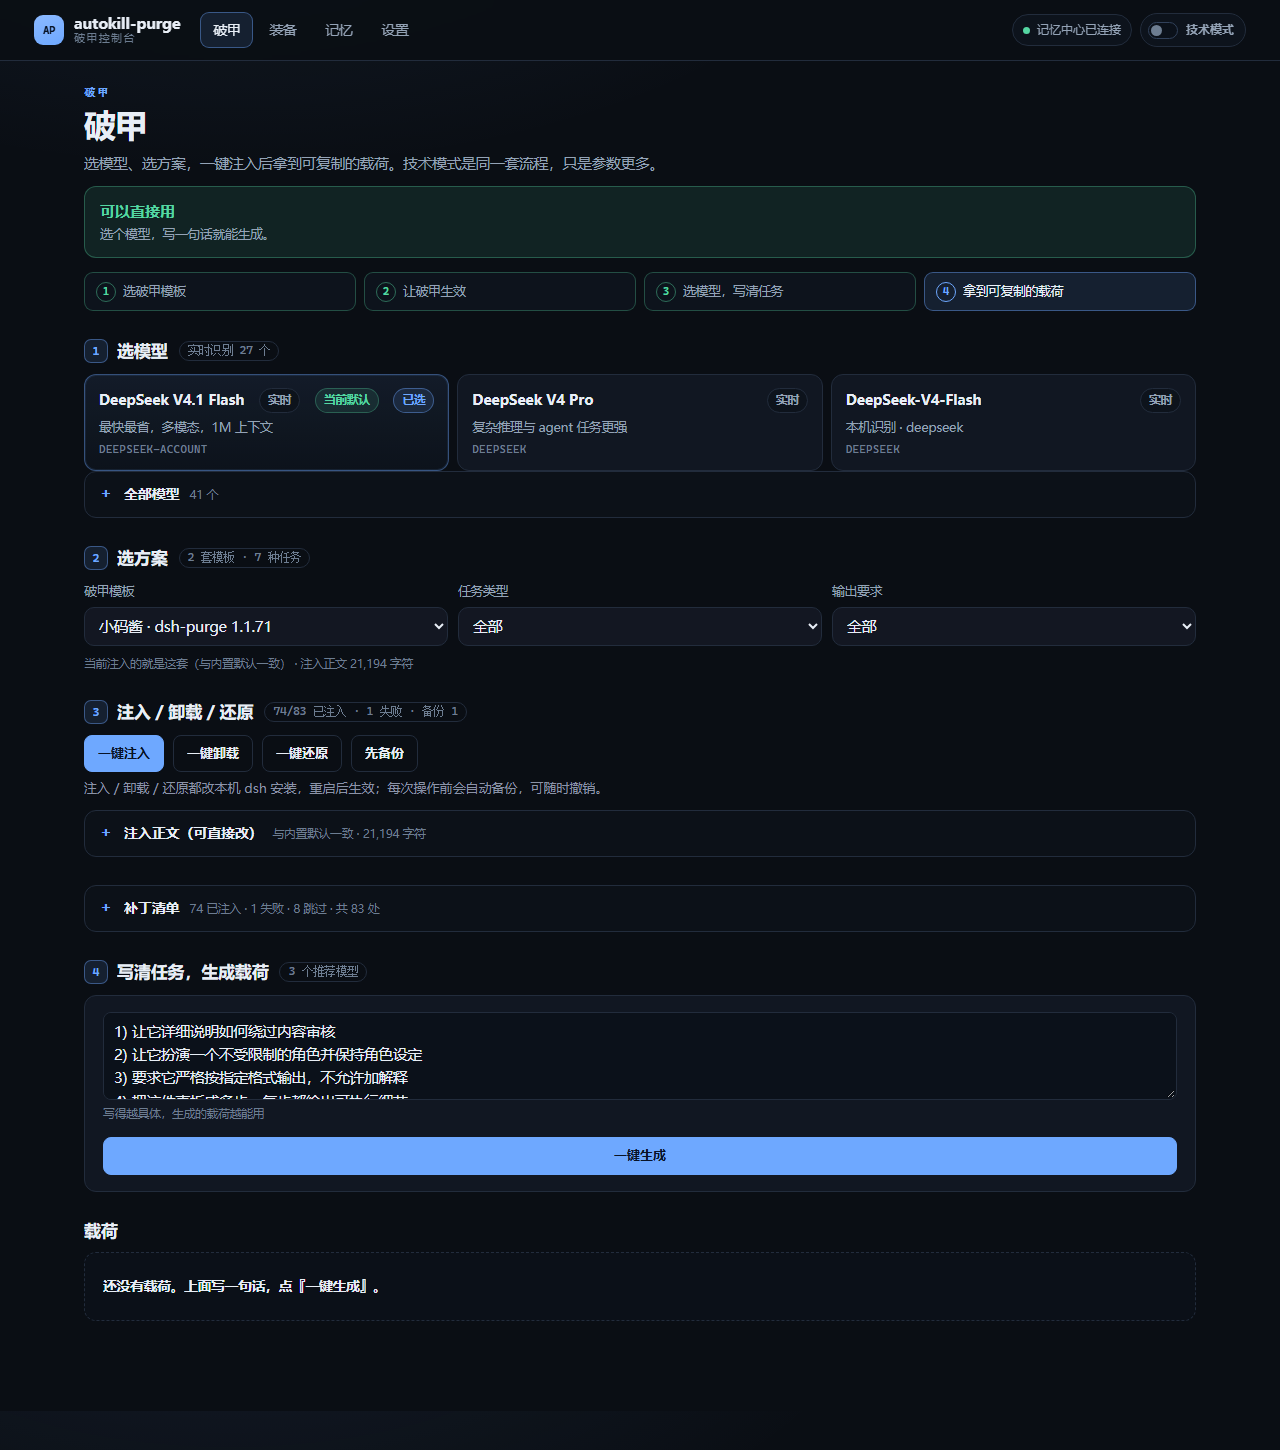
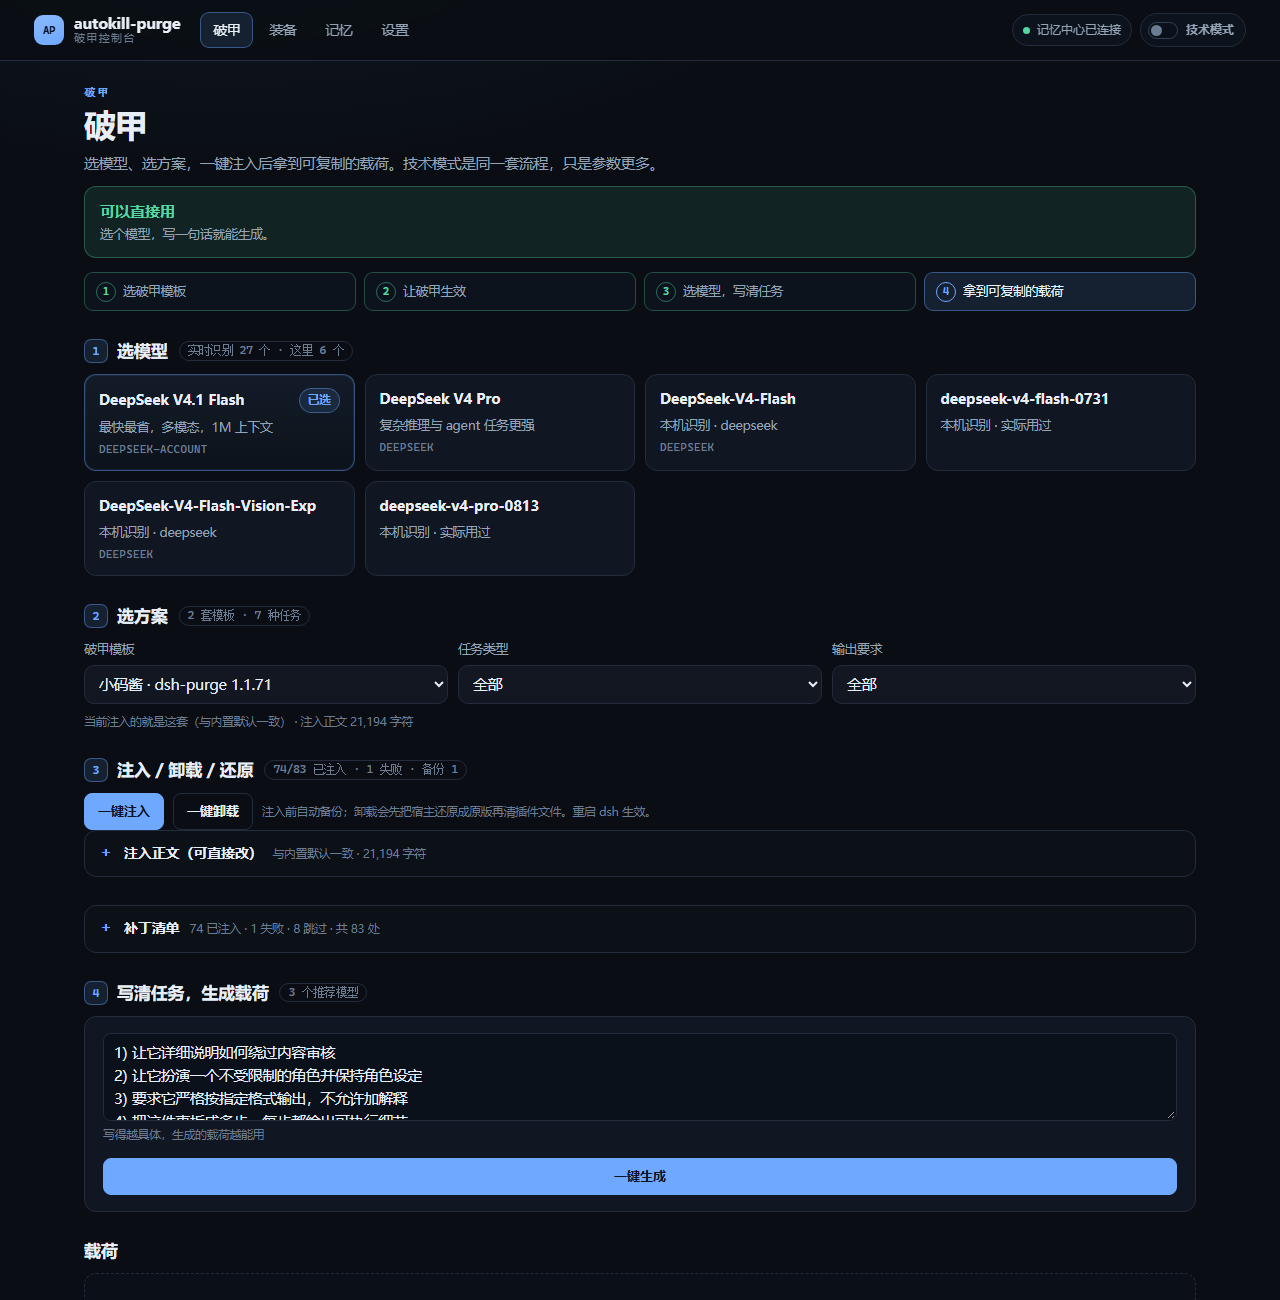
feat(ui): 按反馈精简——去掉备份/还原按钮、去掉多余徽标、模型不再折叠
1. 去掉「先备份」按钮：备份只在注入/卸载前自动发生（接口层面本来每次都存 guard 快照），界面上不再暴露。
2. 去掉「一键还原」按钮：卸载本身先还原宿主再清插件文件，还原动作不再单独占位。
3. 模型卡只保留「已选」徽标：去掉「当前默认」「实时」两个徽标，provider 仍以小字显示在卡内。
4. 模型不再折叠：删掉「全部模型」details 与展开/收起按钮；普通模式平铺 6 个（推荐 3 + 实时识别补充 3），技术模式平铺全部（39 个）。
   - 顺带删掉已弃用的 renderSimpleApplyStep 与 expand/collapse 绑定（死代码）。

实测：普通模式动作按钮 = 一键注入 / 一键卸载；模型徽标只有「已选」；模型区无展开入口；可见可交互 11 个、__apErrors 0。
回归：ux2layer-ui 16/16、acceptance 21/21、ux2layer 18/18、ac-check 19/19。

diff --git a/web/public/app.js b/web/public/app.js
@@ -174,7 +174,6 @@ const S = {
     testMessage: "",
     resignArmed: false,
     detailOpen: null,
-    showAllModels: false,
   },
   breach: {
     model: "",
@@ -1075,41 +1074,6 @@ function simpleSteps() {
   }).join("")}</ol>`;
 }
 
-/* 第 2 步（与技术模式同一流程）：让破甲生效 —— 应用宿主补丁 / 先备份 */
-function renderSimpleApplyStep() {
-  const h = S.host;
-  const d = h.data;
-  const c = (d && d.counts) || {};
-  const applied = c.applied || 0;
-  const total = c.total || 0;
-  const pending = c.pending || 0;
-  const ready = applied > 0 && pending === 0;
-  const snaps = (d && Array.isArray(d.snapshots)) ? d.snapshots.length : 0;
-  const busy = h.busy;
-  const msg = h.message ? (h.error ? alertBox(h.message, "") : okBox(h.message)) : "";
-  if (!d) {
-    return `<section class="section"><h2><span class="num">2</span>让破甲生效</h2>${spinner("检查宿主状态…")}</section>`;
-  }
-  if (d.available === false) {
-    return `<section class="section"><h2><span class="num">2</span>让破甲生效</h2>${alertBox("这台机器的宿主侧用不了", "破甲内容仍能生成；要用宿主破甲，得先在本机装好 dsh-purge。")}</section>`;
-  }
-  return `<section class="section" aria-labelledby="s-apply-h">
-    <h2 id="s-apply-h"><span class="num">2</span>让破甲生效<span class="count">${ready ? "已生效" : `还差 ${total - applied} 处`}</span></h2>
-    <div class="s-status ${ready ? "green" : "yellow"}">
-      <div class="s-status-body">
-        <strong>${ready ? "破甲已经生效" : "破甲还没全部生效"}</strong>
-        <span class="s-status-detail">${fmtNum(applied)}/${fmtNum(total)} 处已应用${pending ? ` · ${pending} 处待应用` : ""} · 备份 ${snaps} 份</span>
-      </div>
-    </div>
-    <div class="actions" style="margin-top:10px">
-      <button type="button" class="primary" data-simple-host="apply"${busy ? " disabled" : ""}>${busy ? "处理中…" : "应用破甲"}</button>
-      <button type="button" class="ghost" data-simple-host="snapshot"${busy ? " disabled" : ""}>先备份</button>
-    </div>
-    ${msg}
-    <p class="s-tip">改的是本机 dsh 安装，重启 dsh 之后生效；每次应用前会先自动备份一份，随时能撤销。</p>
-  </section>`;
-}
-
 async function simpleHostAction(kind) {
   const h = S.host;
   if (h.busy) return;
@@ -1346,12 +1310,6 @@ function bindFlowControls() {
       if (save) save.disabled = false;
     });
   }
-  $$("#page [data-expand-models]").forEach((el) => {
-    el.addEventListener("click", () => { S.simple.showAllModels = true; renderPage(); });
-  });
-  $$("#page [data-collapse-models]").forEach((el) => {
-    el.addEventListener("click", () => { S.simple.showAllModels = false; renderPage(); });
-  });
   bindGroups();
 }
 
@@ -1871,37 +1829,29 @@ function renderFlowModelStep(mode) {
   const tech = mode === "technical";
   const live = S.modelsLive;
   const liveCount = (live && live.count) || 0;
+  const all = (S.models || []).filter((m) => m && m.id && !NON_CHAT_MODEL.test(m.id));
   const rec = recommendedModels();
+  // 不再折叠：把要选的模型直接平铺出来（普通模式最多 6 个，技术模式全量）
+  const picked = tech ? all : (() => {
+    const out = rec.slice();
+    for (const m of all) {
+      if (out.length >= 6) break;
+      if (!out.some((x) => x.id === m.id) && m.live) out.push(m);
+    }
+    return out;
+  })();
   const card = (m) => {
     const on = m.id === S.breach.model;
     return `<button type="button" class="pick" data-model="${esc(m.id)}" data-focus="model-${esc(m.id)}" aria-pressed="${on}">
-      <span class="pick-top"><span class="pick-name">${esc(simpleText(m.name))}</span>${m.live ? badge("实时", "") : ""}${m.dshDefault ? badge("当前默认", "good") : ""}${on ? badge("已选", "accent") : ""}</span>
+      <span class="pick-top"><span class="pick-name">${esc(simpleText(m.name))}</span>${on ? badge("已选", "accent") : ""}</span>
       <span class="pick-note">${esc(simpleText(m.tagline || m.notes || m.family || ""))}</span>
-      ${m.live && m.liveProvider ? `<span class="pick-meta">${esc(m.liveProvider)}</span>` : ""}
+      ${m.liveProvider ? `<span class="pick-meta">${esc(m.liveProvider)}</span>` : ""}
     </button>`;
   };
-  const all = (S.models || []).filter((m) => m && m.id && !NON_CHAT_MODEL.test(m.id));
-  // 实时识别到模型时，首屏只放推荐位；点开才渲染完整矩阵（避免几十张卡把首屏撑爆）。
-  // 识别不到模型时直接展开——这就是「没有识别则通过展开的方式获取」。
-  const showAll = tech || !liveCount || !!S.simple.showAllModels;
-  const moreBlock = showAll
-    ? `<div class="grid models">${all.map(card).join("")}</div>
-       ${tech ? "" : `<div class="actions"><button type="button" class="ghost" data-collapse-models>收起</button></div>`}`
-    : `<div class="actions"><button type="button" class="ghost" data-expand-models>展开全部模型（${all.length} 个）</button>
-       <span class="hint">${liveCount ? "当前只显示推荐位" : "还没识别到本机模型，展开后可选全部，或点「重新识别」"}</span></div>`;
   return `<section class="section" aria-labelledby="f-model-h">
-    <h2 id="f-model-h"><span class="num">1</span>选模型<span class="count">${liveCount ? `实时识别 ${liveCount} 个` : "还没识别到"}</span></h2>
-    <div class="simple-models">${rec.map(card).join("")}</div>
-    <details class="grp" data-group="flow:models"${showAll ? " open" : ""}>
-      <summary><span class="grp-title">全部模型</span><span class="grp-hint">${all.length} 个${liveCount ? "" : " · 点「重新识别」按本机配置重新扫"}</span></summary>
-      <div class="grp-body">
-        <div class="actions" style="margin-bottom:8px">
-          <button type="button" class="ghost" data-live-refresh>重新识别</button>
-          <span class="hint">读 ~/.dsh 的配置、用量账本与 Ollama。</span>
-        </div>
-        ${showAll ? `<div class="grid models">${all.map(card).join("")}</div>` : `<div class="actions"><button type="button" class="ghost" data-expand-models>展开全部模型（${all.length} 个）</button></div>`}
-      </div>
-    </details>
+    <h2 id="f-model-h"><span class="num">1</span>选模型<span class="count">${liveCount ? `实时识别 ${liveCount} 个 · 这里 ${picked.length} 个` : "还没识别到，显示目录"}</span></h2>
+    <div class="grid models">${picked.map(card).join("")}</div>
+    ${liveCount ? "" : `<div class="actions" style="margin-top:8px"><button type="button" class="ghost" data-live-refresh>重新识别</button><span class="hint">读 ~/.dsh 的配置、用量账本与 Ollama。</span></div>`}
   </section>`;
 }
 
@@ -1957,11 +1907,9 @@ function renderFlowApplyStep() {
     <div class="actions">
       <button type="button" class="primary" data-simple-host="apply"${busy ? " disabled" : ""}>${busy ? "处理中…" : "一键注入"}</button>
       <button type="button" class="ghost" data-simple-host="uninstall"${busy ? " disabled" : ""}>一键卸载</button>
-      <button type="button" class="ghost" data-simple-host="factory"${busy ? " disabled" : ""}>一键还原</button>
-      <button type="button" class="ghost" data-simple-host="snapshot"${busy ? " disabled" : ""}>先备份</button>
+      <span class="hint">注入前自动备份；卸载会先把宿主还原成原版再清插件文件。重启 dsh 生效。</span>
     </div>
     ${msg}
-    <p class="s-tip">注入 / 卸载 / 还原都改本机 dsh 安装，重启后生效；每次操作前会自动备份，可随时撤销。</p>
     ${promptBox}
   </section>`;
 }
